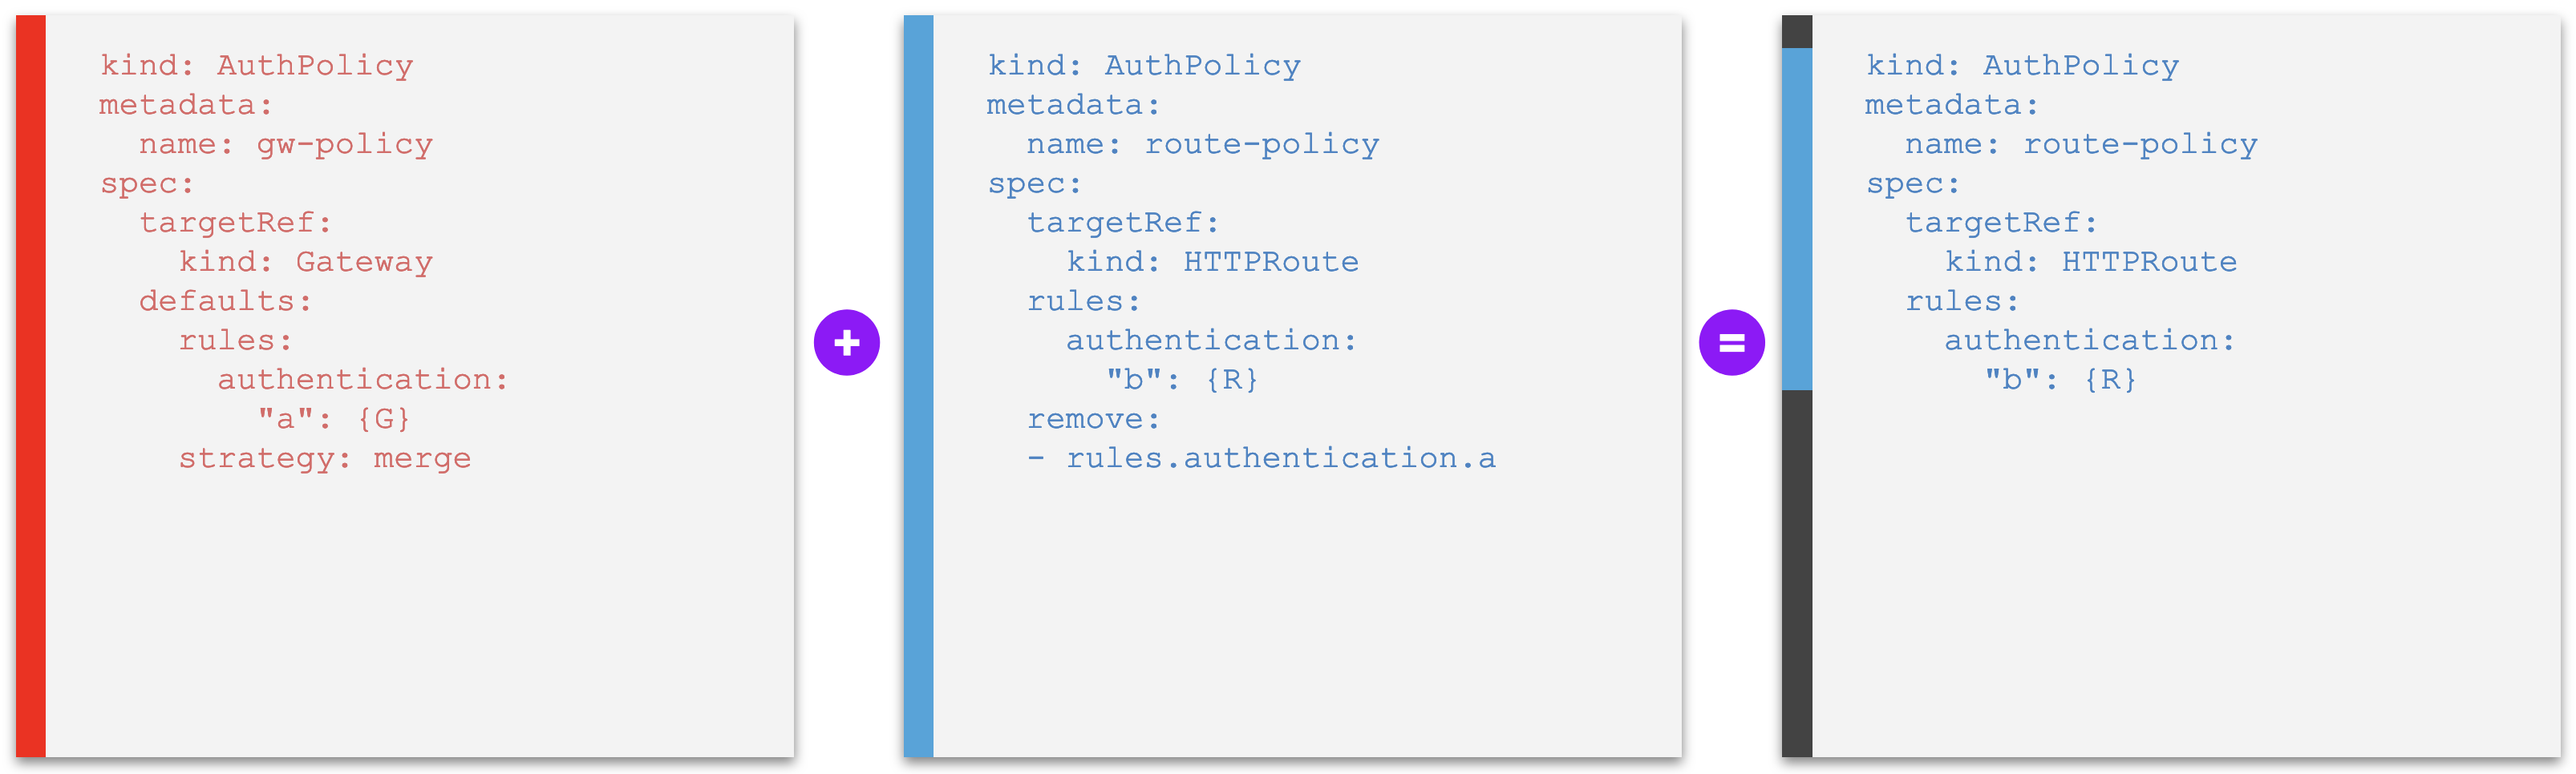
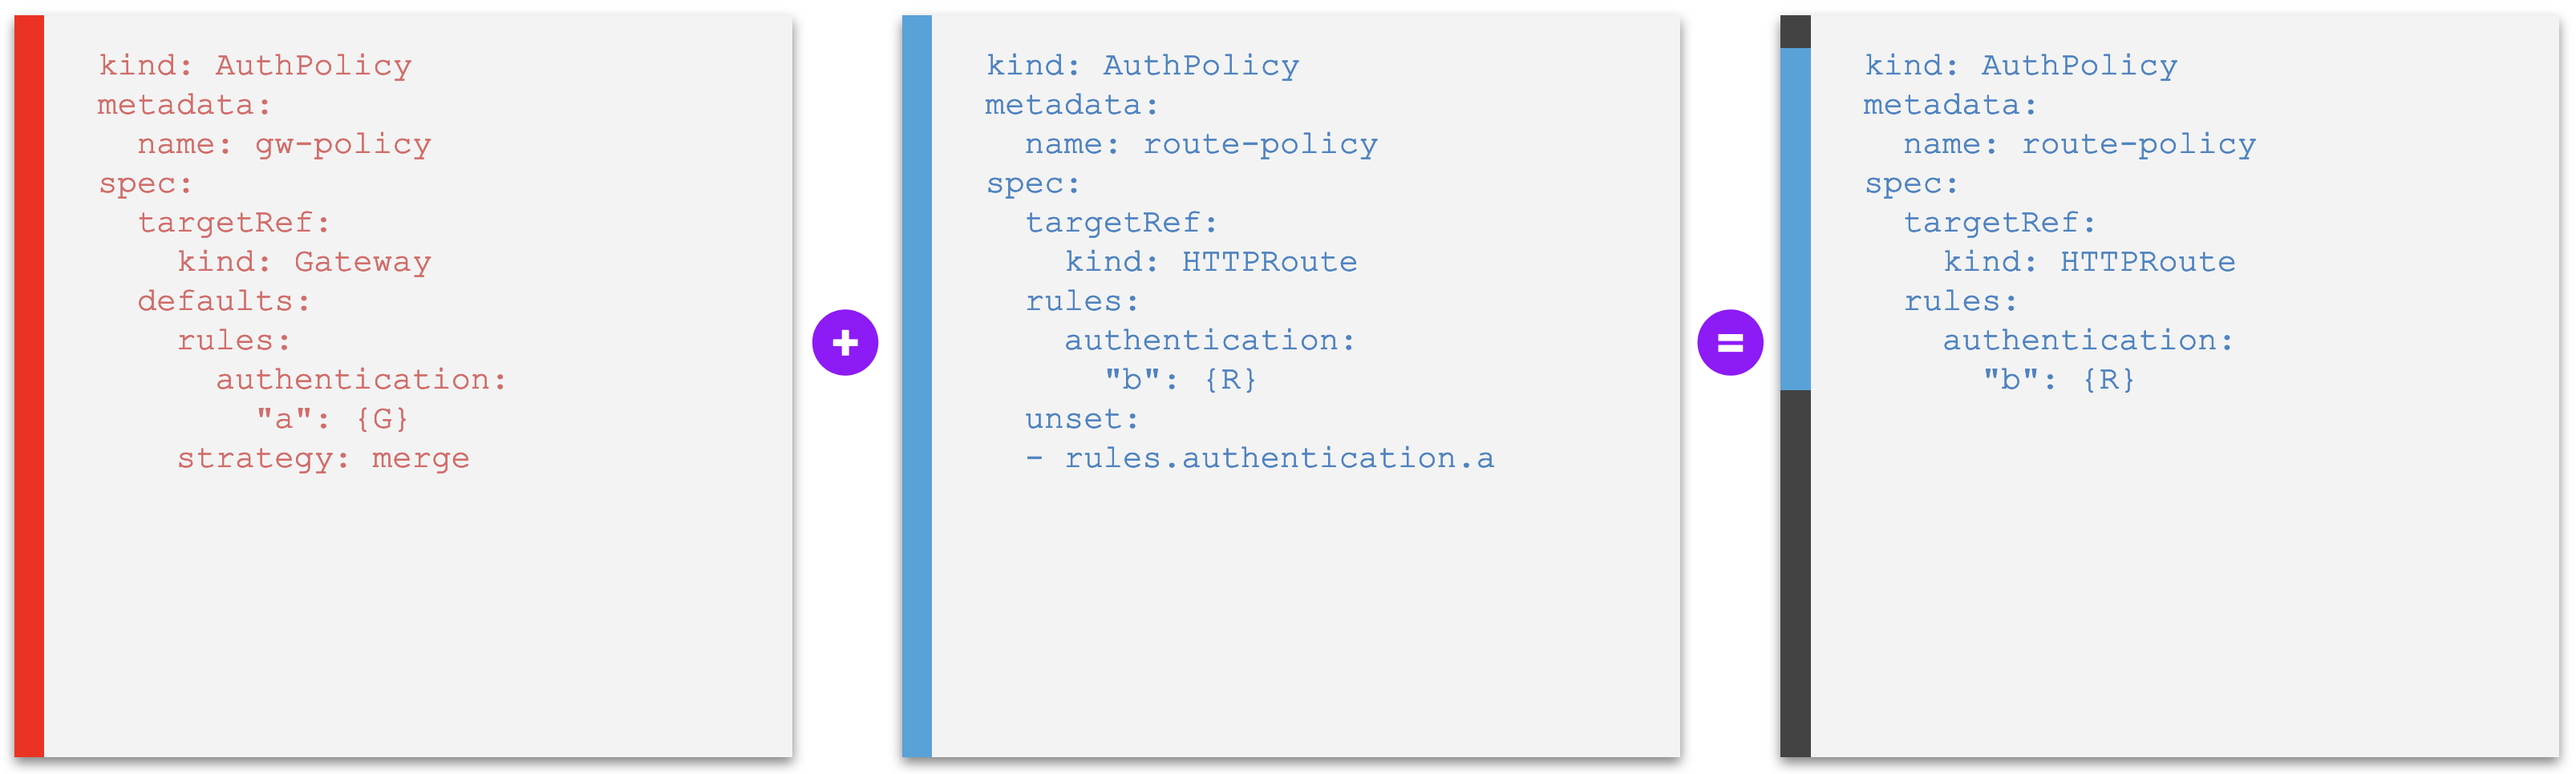
Renames 'deactivations' as 'unsetting defaults' and provides better explanation for the feature

diff --git a/rfcs/0009-defaults-and-overrides.md b/rfcs/0009-defaults-and-overrides.md
@@ -8,7 +8,7 @@
 # Summary
 [summary]: #summary
 
-This is a proposal for extending the Kuadrant Policy APIs to fully support use cases of **Defaults & Overrides (D/O)** for [Inherited Policies](https://gateway-api.sigs.k8s.io/geps/gep-713/#inherited-policy-attachment-its-all-about-the-defaults-and-overrides), including the base use cases of _full default_ and _full override_, and more specific nuances that involve merging individual policy rules (as defaults or overrides), declaring constraints and deactivating defaults.
+This is a proposal for extending the Kuadrant Policy APIs to fully support use cases of **Defaults & Overrides (D/O)** for [Inherited Policies](https://gateway-api.sigs.k8s.io/geps/gep-713/#inherited-policy-attachment-its-all-about-the-defaults-and-overrides), including the base use cases of _full default_ and _full override_, and more specific nuances that involve merging individual policy rules (as defaults or overrides), declaring constraints and unsetting defaults.
 
 # Motivation
 [motivation]: #motivation
@@ -37,7 +37,7 @@ The base cases are expanded with the following additional derivative cases and c
 - **Merged defaults (DR):** "higher" default policy rules that are merged into more specific "lower" policies (as opposed to an atomic less specific set of rules that is activated only when another more specific one is absent)
 - **Merged overrides (OR):** "higher" override policy rules that are merged into more specific "lower" policies (as opposed to an atomic less specific set of rules that is activated fully replacing another more specific one that is present)
 - **Constraints (C):** specialization of an override that, rather than declaring concrete values, specify higher level constraints (e.g., min value, max value, enums) for lower level values, with the semantics of "clipping" lower level values so they are enforced, in an override fashion, to be the boundaries dictated by the constraints; typically employed for constraining numeric values and regular patterns (e.g. limited sets)
-- **Deactivation (RR):** specialization that completes a merge default use case by allowing lower level policies to disable ("deactivate") individual defaults set a higher level (as opposed to superseding those defaults with actual, more specific, policy rules with proper meaning there than nullify the default)
+- **Unsetting (U):** specialization that completes a merge default use case by allowing lower level policies to disable ("unset") individual defaults set a higher level (as opposed to superseding those defaults with actual, more specific, policy rules with proper meaning)
 
 Together, these concepts relate to solve the following user stories:
 
@@ -50,7 +50,7 @@ Together, these concepts relate to solve the following user stories:
 | As a Platform Engineer, when configuring a Gateway, I want to set policy rules (parts of a policy) for all routes linked to my Gateway, that cannot be individually replaced by more specific ones(*), but only expanded with additional more specific rules(\*).                                   | OR    | **gateway-override-policy-rule** |
 | As an Application Developer, when managing an application, I want to set a policy for my application, that fully replaces any default policy that may exist for the application at the level of the Gateway, without having to know about the existence of the default policy.                      | D     | **route-replace-policy**         |
 | As an Application Developer, when managing an application, I want to expand a default set of policy rules set for my application at the level of the gateway, without having to refer to those existing rules by name.                                                                              | D/O   | **route-add-policy-rule**        |
-| As an Application Developer, when managing an application, I want to deactivate an individual default rule set for my application at the level of the gateway.                                                                                                                                      | RR    | **route-disable-policy-rule**    |
+| As an Application Developer, when managing an application, I want to unset an individual default rule set for my application at the level of the gateway.                                                                                                                                           | U     | **route-unset-policy-rule**      |
 
 <sup>(*) declared in the past or in the future, by myself or any other authorized user.</sup>
 
@@ -205,9 +205,25 @@ The order of the policies, from less specific (or "higher") to more specific (or
 
 For a more detailed reference, including how to resolve conflicts in case of policies targeting objects at the same level, see GEP-713's section [Hierarchy](https://gateway-api.sigs.k8s.io/geps/gep-713/#hierarchy) and [Conflict Resolution](https://gateway-api.sigs.k8s.io/geps/gep-713/#conflict-resolution).
 
+### Unsetting inherited defaults
+
+In some cases, it may be desirable to be able to unset, at a lower policy, a merged default that is inherited from a higher one. In fact, some inherited defaults could be harmful to an application, at the same time as they are unfeasible to remove from scope for all applications altogether, and therefore require an exception.
+
+Unsetting defaults via specification at lower level policies provides users who own policy rules at different levels of the hirarchy the option of not having to coordinate those exceptions "offline", nor having to accept the addition of special cases (conditions) _at the higher level_ to exempt only specific lower policies from being affected by a particular default, which otherwise would configure a violation of the inheritance pattern, as well as an imposition of additional cognitive complexity for one who reads a higher policy with too many conditions.
+
+Instead, users should continue to be able to declare their intents through policies, and redeem an entitlement to unset unapplicable defaults, without any leakage of lower level details upwards at the higher policies.
+
+The option of unsetting inherited defaults is presented as part of the volition implied by the inheritance of policy rules, which are tipically specified for the more general case (e.g. at the level of a gateway, for all routes), though not necessarily applicable for all special cases beneath. If enabled, this feature helps disambiguate the concept of "default", which should not be understood strictly as the option to set values that protect the system in case of lack of specialisation. Rather, by its property of volition and changeability. I.e., by definition, **every default policy rule is opt-out and specifies a value that is modifiable**.
+
+In constrast, a policy rule that is neither opt-out nor modifiable better fits the definition of an _override_. While a policy rule that is not opt-out, nor it sets a concrete default value to be enforced in the lack of specialisation, defines a [_requirement_](#policy-requirements).
+
+Finally, for the use case where users want to set defaults that cannot be unset (though still modifable), the very feature of unsetting defaults itself should be configurable, at least at the level of the system. This can be achieved with feature switches and policy validation, including backed by the cluster's RBAC if needed.
+
+The capability of unsetting inherited defaults from an effective policy can be identified by the presence of the `spec.unset` field in a policy. The value is a list of default named policy rules to be unset.
+
 ## Examples of D/O cases
 
-The following sets of examples generalize D/O applications for the presented [user stories](#conceptialization-and-user-story), regardless of details about specific personas and kinds of targeted resources. They illustrate the expected behavior for different cases involving defaults, overrides, constraints and deactivations.
+The following sets of examples generalize D/O applications for the presented [user stories](#conceptialization-and-user-story), regardless of details about specific personas and kinds of targeted resources. They illustrate the expected behavior for different cases involving defaults, overrides, constraints and unsetting.
 
 | Examples                                                                                                                                                | Highlighted user stories                           |
 |---------------------------------------------------------------------------------------------------------------------------------------------------------|----------------------------------------------------|
@@ -216,7 +232,7 @@ The following sets of examples generalize D/O applications for the presented [us
 | [C. Override policy entirely replacing other at lower level](#examples-c---override-policy-entirely-replacing-other-at-lower-level)                     | gateway-override-policy                            |
 | [D. Override policy rules merged into other at lower level](#examples-d---override-policy-rules-merged-into-other-at-lower-level)                       | gateway-override-policy-rule                       |
 | [E. Override policy rules setting constraints to other at lower level](#examples-e---override-policy-rules-setting-constraints-to-other-at-lower-level) | policy-constraints                                 |
-| [F. Policy rule that deactivates default from higher level](#examples-f---policy-rule-that-deactivates-default-from-higher-level)                       | route-disable-policy-rule                          |
+| [F. Policy rule that unsets a default from higher level](#examples-f---policy-rule-that-unsets-a-default-from-higher-level)                             | route-unset-policy-rule                            |
 
 In all the examples, a Gateway and a HTTPRoute objects are targeted by two policies, and an effective policy is presented highlighting the expected outcome. This poses no harm to generalizations involving same or different kinds of targeted resources, multiples policies targeting a same object, etc.
 
@@ -232,13 +248,13 @@ For a complete reference of the order of hierarchy, from least specific to most 
 
 ### Examples B - Default policy rules merged into policies at lower level
 
-**Example B1.** A _default_ policy whose rules are _merged into other policies_ at a lower level, where individual default policy rules can be overridden or deactivated - _without conflict_
+**Example B1.** A _default_ policy whose rules are _merged into other policies_ at a lower level, where individual default policy rules can be overridden or unset - _without conflict_
 
-![A default policy whose rules are merged into other policies at a lower level, where individual default policy rules can be overridden or deactivated - without conflict](0009-defaults-and-overrides-assets/example-b1.png)
+![A default policy whose rules are merged into other policies at a lower level, where individual default policy rules can be overridden or unset - without conflict](0009-defaults-and-overrides-assets/example-b1.png)
 
-**Example B2.** A _default_ policy whose rules are _merged into other policies_ at a lower level, where individual default policy rules can be overridden or deactivated - _with conflict_
+**Example B2.** A _default_ policy whose rules are _merged into other policies_ at a lower level, where individual default policy rules can be overridden or unset - _with conflict_
 
-![A default policy whose rules are merged into other policies at a lower level, where individual default policy rules can be overridden or deactivated - with conflict](0009-defaults-and-overrides-assets/example-b2.png)
+![A default policy whose rules are merged into other policies at a lower level, where individual default policy rules can be overridden or unset - with conflict](0009-defaults-and-overrides-assets/example-b2.png)
 
 ### Examples C - Override policy entirely replacing other at lower level
 
@@ -280,17 +296,17 @@ On one hand, the API is simple and straightforward, and there are no deeper side
 
 ![An override policy whose rules set constraints to field values of other policies at a lower level, overriding individual policy values of rules with same identification if those values violate the constraints - merge granularity problem](0009-defaults-and-overrides-assets/example-e3.png)
 
-### Examples F - Policy rule that deactivates default from higher level
+### Examples F - Policy rule that unsets a default from higher level
 
-The examples in this section introduce a new field `remove: []string` at the same level as the bare set of policy rules. The value of this field, provided as a list, dictates the default policy rules declared at a higher level to be deactivated ("removed") from the effective policy, specified by name of the policy rules.
+The examples in this section introduce a new field `unset: []string` at the same level as the bare set of policy rules. The value of this field, provided as a list, dictates the default policy rules declared at a higher level to be removed ("unset") from the effective policy, specified by name of the policy rules.
 
-**Example F1.** A policy that _deactivates_ a _default_ policy rule set at a higher level
+**Example F1.** A policy that _unsets_ a _default_ policy rule set at a higher level
 
-![A policy that deactivates a default policy rule set at a higher level](0009-defaults-and-overrides-assets/example-f1.png)
+![A policy that unsets a default policy rule set at a higher level](0009-defaults-and-overrides-assets/example-f1.png)
 
-**Example F2.** A policy that tries to _deactivate_ an _override_ policy rule set a higher level
+**Example F2.** A policy that tries to _unset_ an _override_ policy rule set a higher level
 
-![A policy that tries to deactivate an override policy rule set a higher level](0009-defaults-and-overrides-assets/example-f2.png)
+![A policy that tries to unset an override policy rule set a higher level](0009-defaults-and-overrides-assets/example-f2.png)
 
 # Reference-level explanation
 [reference-level-explanation]: #reference-level-explanation
@@ -369,7 +385,7 @@ flowchart LR
 %%{ init: { "theme": "neutral" } }%%
 flowchart LR
     merge-default-block-into-p-start([Merge default block<br>of policy rules <i>B</i><br>into policy <i>p</i>]) -->
-    remove-unwanted-policy-rules[Remove from <i>B</i><br>all policy rules<br>listed in <i>p.remove</i>] -->
+    unset-unwanted-policy-rules[Remove from <i>B</i><br>all policy rules<br>listed in <i>p.unset</i>] -->
     p-empty{<i>p.empty?</i>}
     p-empty -- "Yes" --> full-replace-p-with-defaut-block[<i>p.rules ← B</i>] --> merge-default-block-into-p-finish(((Return <i>p</i>)))
     p-empty -- "No" --> default-block-strategy{<i>B.strategy</i>}
@@ -420,7 +436,7 @@ The path is divided in 3 tiers that could be delivered in steps, additionaly to 
 
 ### Tier 3
 
-- Deactivations
+- Unsetting (`unset`)
 - Metrics for D/O policies (control plane)
 - Docs: possible approaches for ["requirements"](#policy-requirements)
 
@@ -471,7 +487,7 @@ Some of the implications of the design are explained in the section [Atomic vs. 
           <li>Declarative</li>
           <li>Safe against "unmergeable objects" (e.g. two rules declaring different one-of options)</li>
           <li>Strong types</li>
-          <li>Extensible (by adding more fields, e.g.: to support deactivations)</li>
+          <li>Extensible (by adding more fields, e.g.: to support unsetting defaults)</li>
           <li>Easy to learn</li>
         </ul>
       </td>
